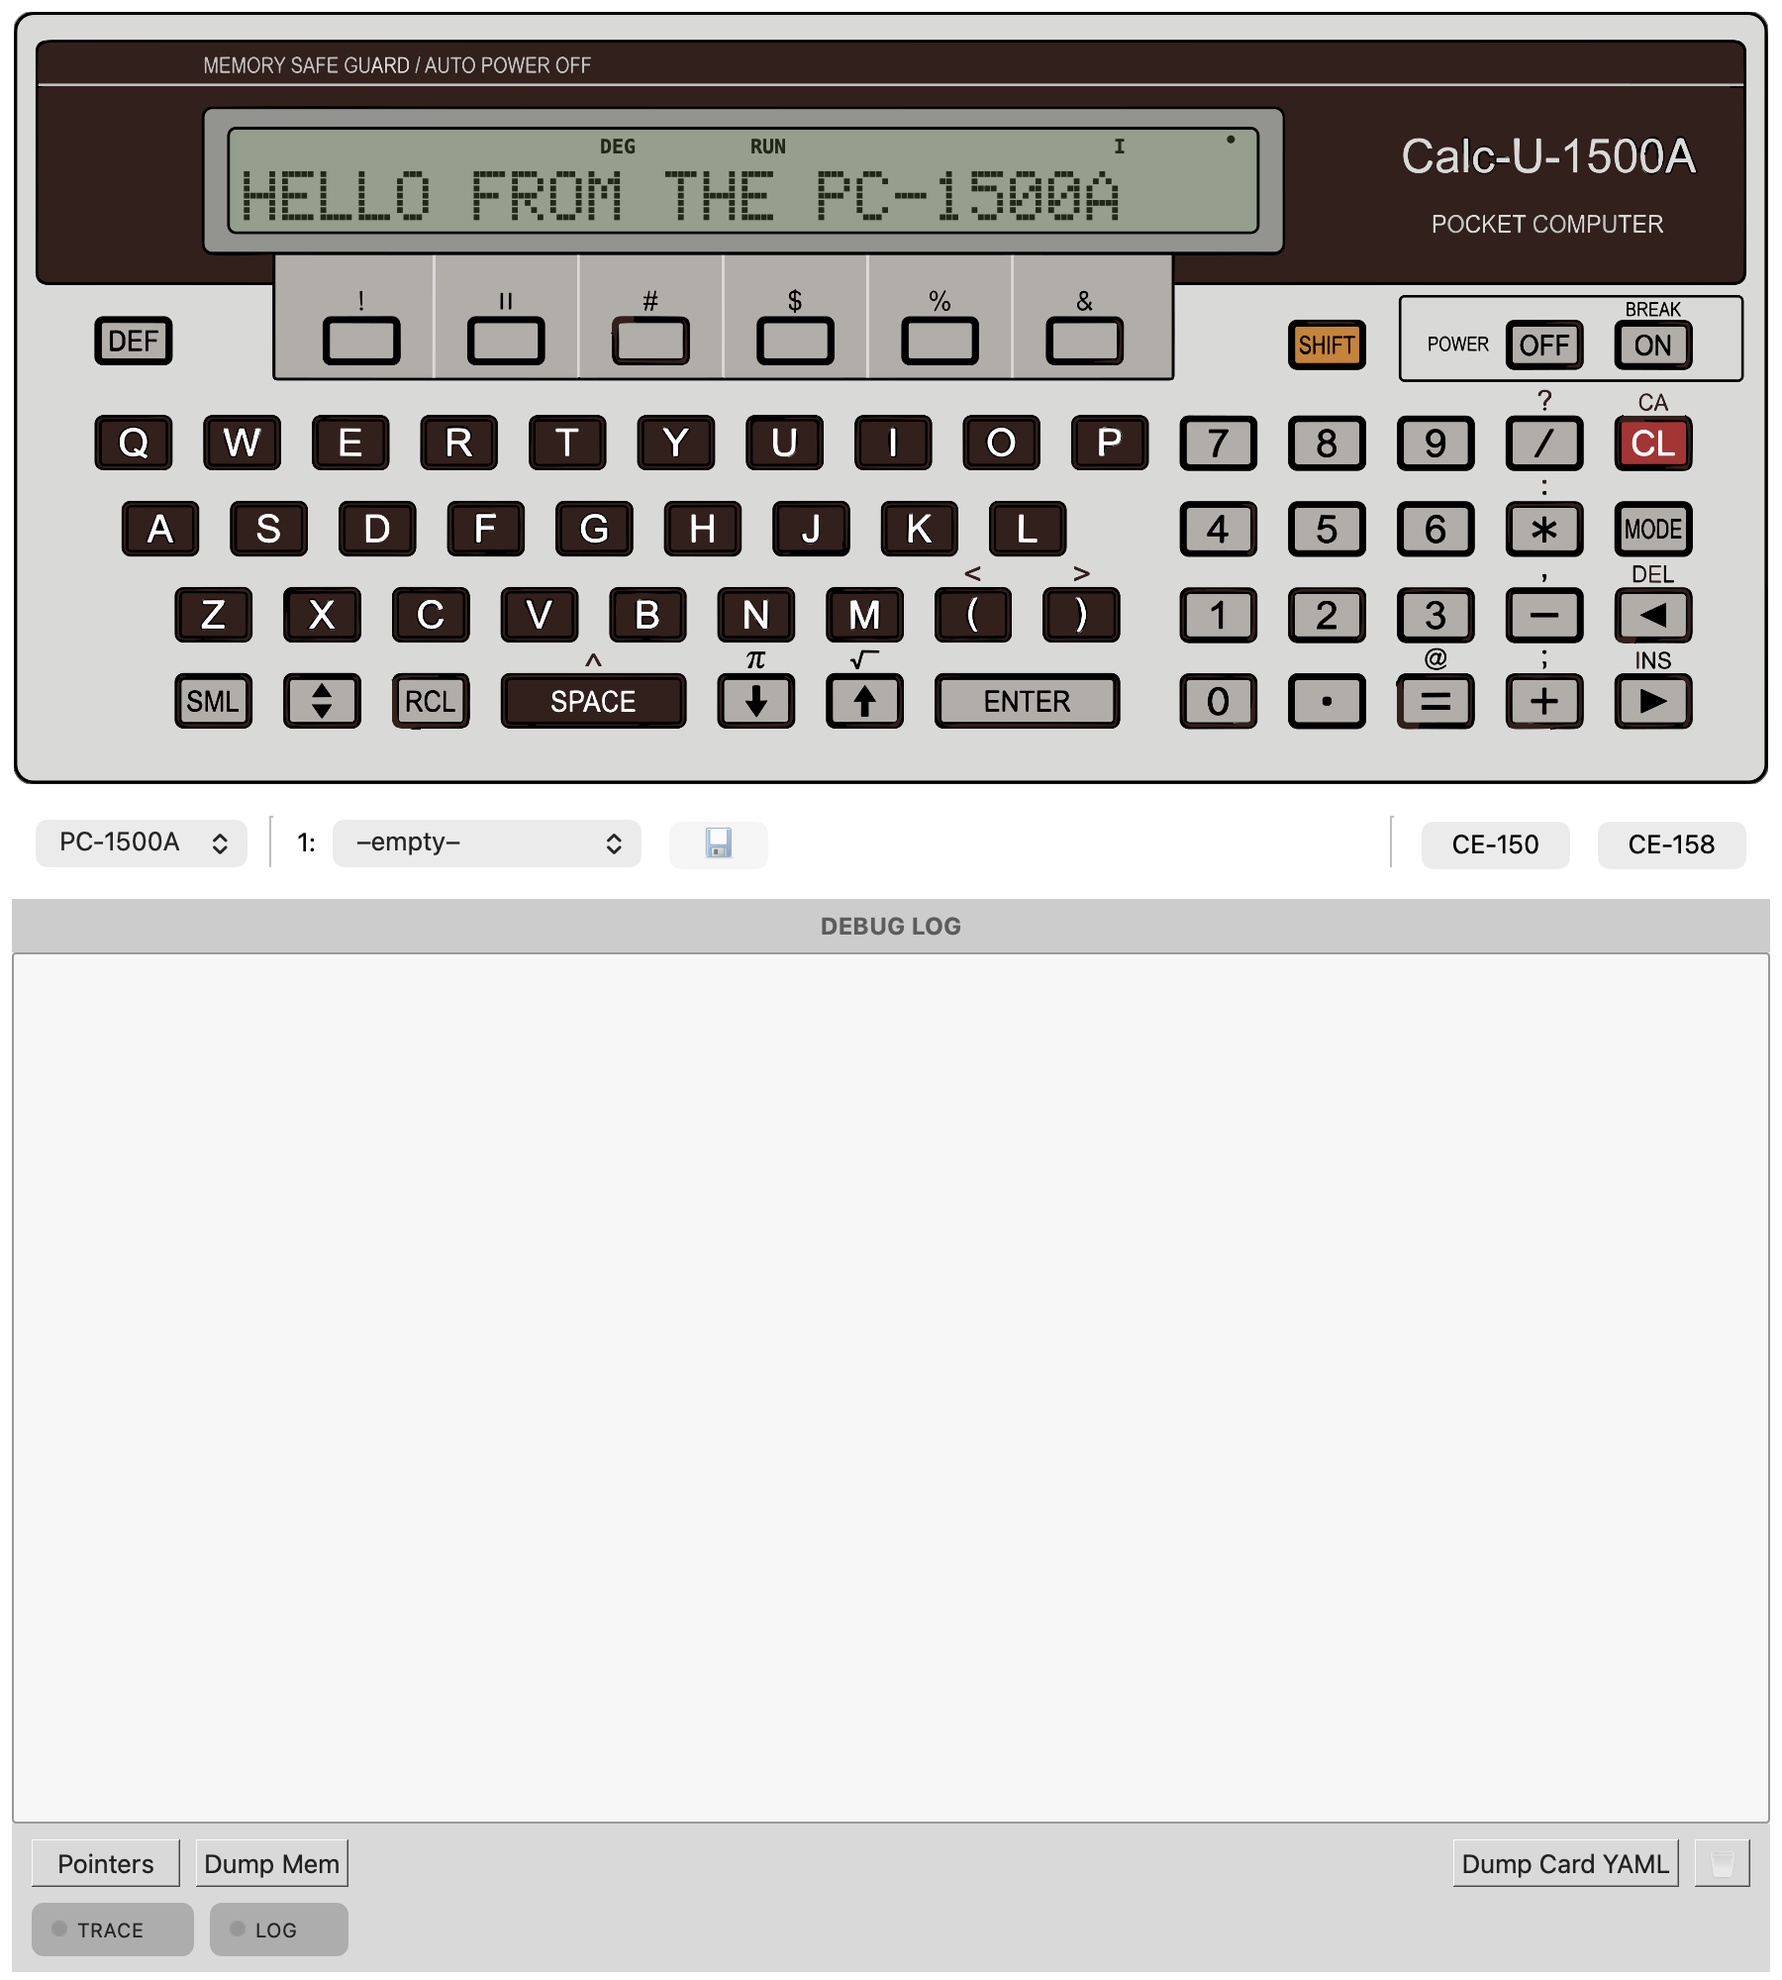
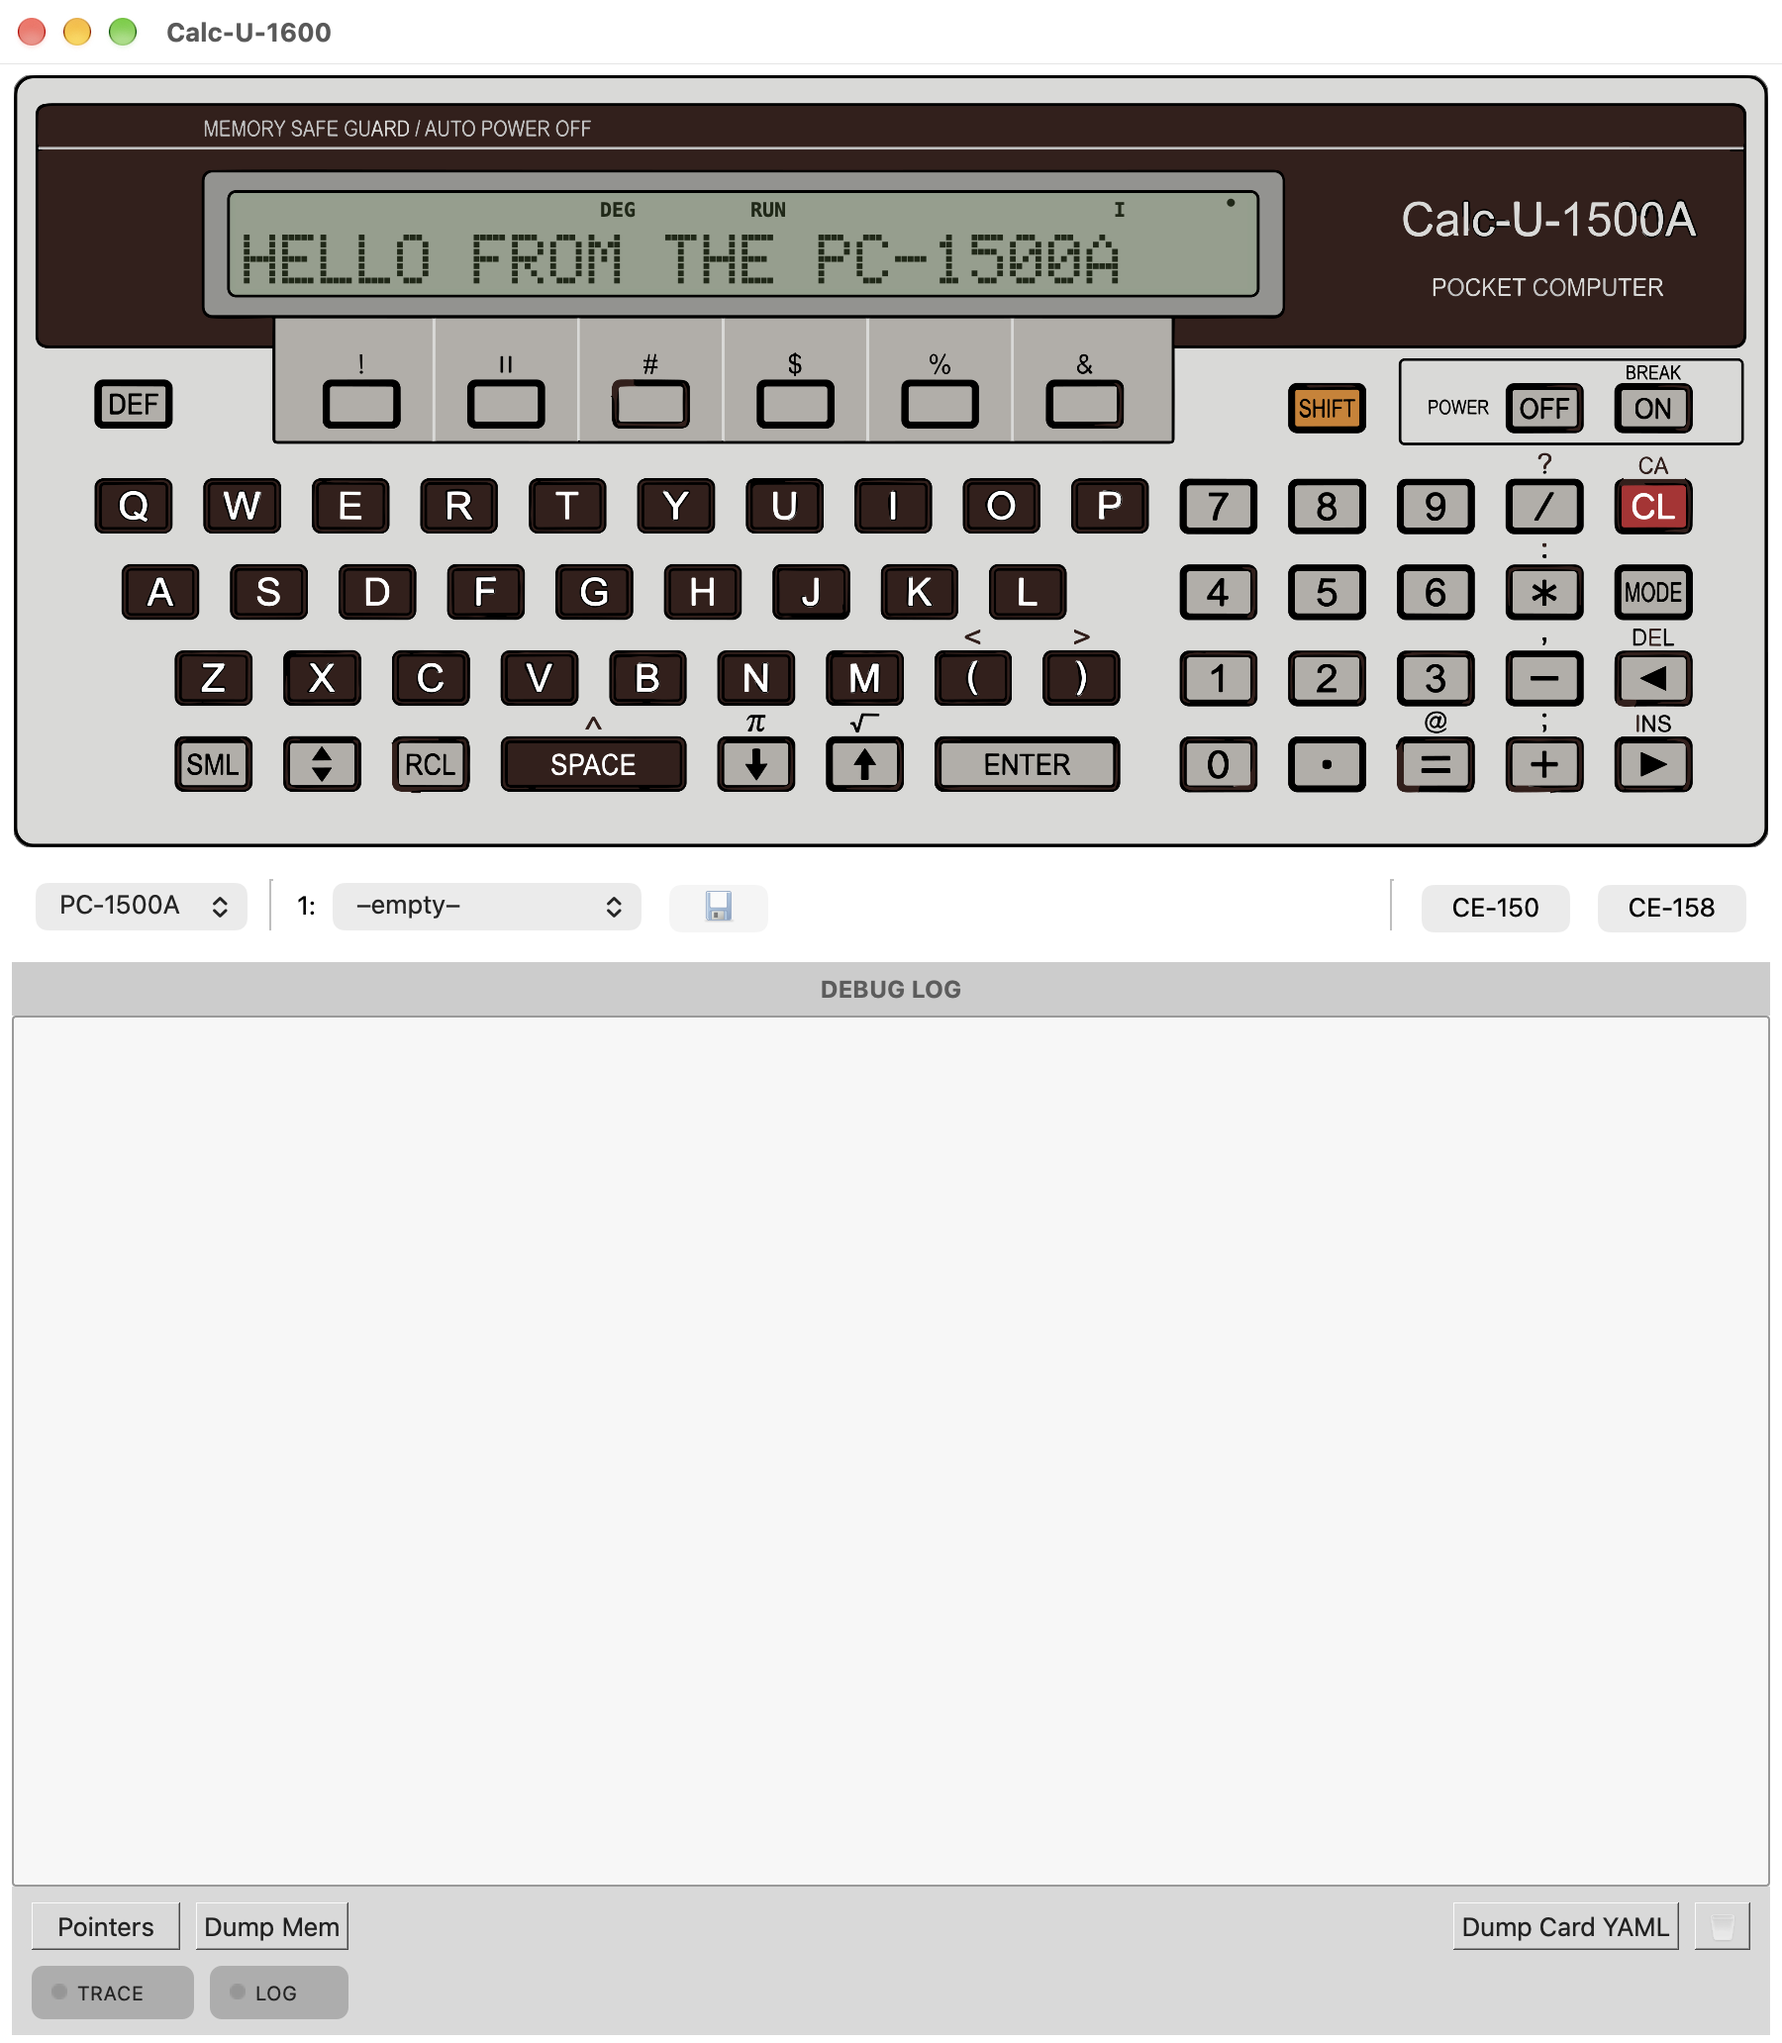
Docs: main-window screenshot via macOS screencapture (title bar)
The user-guide scenario's main-window shot now uses method: system, so
Getting started shows the real window chrome; it needs Screen Recording.
macos-menus.shots.yaml keeps only the native-menu shot.

Changed region(s): [[0.0, 0.0, 0.9956, 0.496], [0.0311, 0.899, 0.9956, 0.992]]

diff --git a/docs/screenshots/README.md b/docs/screenshots/README.md
@@ -138,9 +138,11 @@ Privacy & Security**:
 - **Accessibility** and **Automation ▸ System Events**, to open the menu.
 
 A missing permission fails the shot with that message, never a silently
-wrong picture. These shots live in their own scenario,
-[macos-menus.shots.yaml](macos-menus.shots.yaml), so the Qt-only
-[user-guide.shots.yaml](user-guide.shots.yaml) runs anywhere.
+wrong picture. The menu shots live in their own scenario,
+[macos-menus.shots.yaml](macos-menus.shots.yaml).
+[user-guide.shots.yaml](user-guide.shots.yaml) has a single `system` shot:
+the main window with its title bar. It needs only Screen Recording; its
+other shots are Qt-rendered and byte-identical per run.
 
 ### Widget names
 
